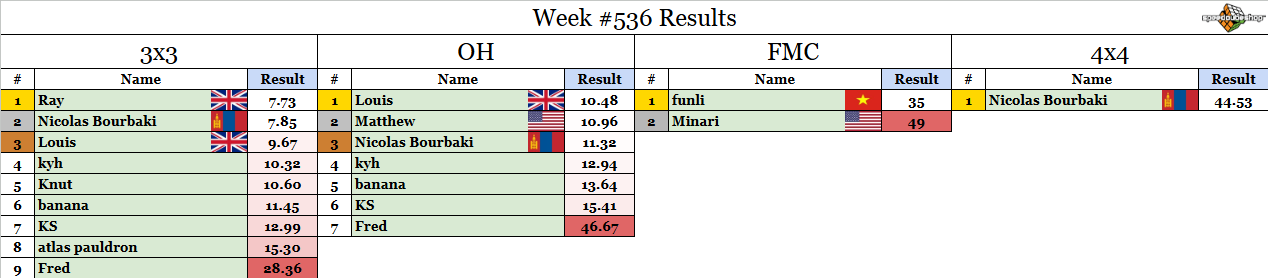
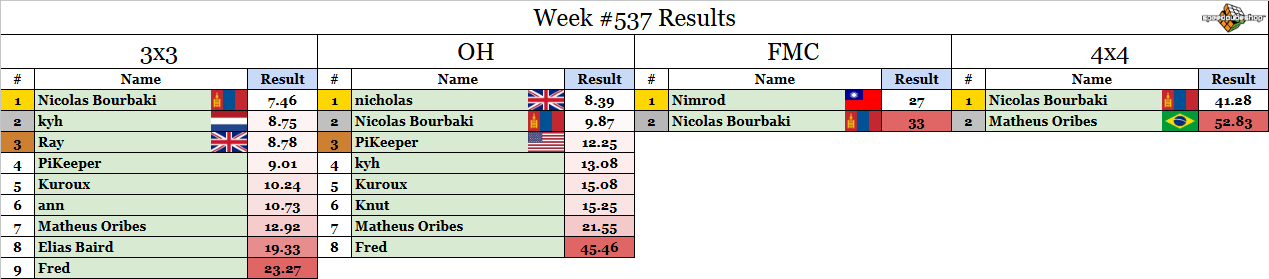
weekly comp update

Changed region(s): [[0.0, 0.0, 1.0, 1.0]]

diff --git a/src/pages/CMLL.tsx b/src/pages/CMLL.tsx
@@ -280,7 +280,7 @@ export default function CMLLTabs() {
             </TabPanel>
             <TabPanel value={subTab} index={4}>
                 <Box sx={{ width: tabWidth, padding: 2 }}>
-                    <Typography variant="h6">Pinkie Pie - IN PROGRESS</Typography>
+                    <Typography variant="h6">Pinkie Pie</Typography>
                     <ul>
                     <li>
                         Pinkie Pie Overview:{" "}

diff --git a/src/weeklycomp/post.md b/src/weeklycomp/post.md
@@ -1,9 +1,9 @@
-## Weekly Competition #537 
+## Weekly Competition #538 
  
  This weekly competition is proudly sponsored by SpeedCubeShop.com 
  One competitor will be selected at random to receive a $5 SCS gift card! 
  
- Congrats to last week's winner by a random draw: **kyh**. DM me for the prize. 
+ Congrats to last week's winner by a random draw: **ann**. DM me for the prize. 
  
  Check whether or not you participated this week yet at [https://bit.ly/RMSWeeklyCompSummary](https://bit.ly/RMSWeeklyCompSummary)  
  
@@ -17,29 +17,30 @@
  7. The comp runs until Sunday 5pm Eastern time (more or less). Enter your times using the forms links below. 
  
 ### 3x3: [Submission Form](https://forms.gle/H5xoCWvGKnZ92fQt8) 
- 1. R B2 D L2 F2 D B2 U' B2 L2 U' F R2 U R' F R D' F2 
- 2. F2 D2 U' F2 R2 U2 F2 U' B2 U' F2 R D B2 F' D R' B' L B L2 
- 3. F' U2 B' F2 R2 B' L2 F' L2 D2 R2 D R' D2 L' D2 L B' U2 L' R' 
- 4. L' B2 L2 B2 U' R2 B2 F2 D2 U' F2 D' F2 R B' D' U2 L2 F D2 F2 
- 5. F2 R2 U2 F2 U' R2 B2 D R2 D U B' R U' L B L2 F2 D2 R2 D 
+ 1. D L' B2 U B2 R2 L' B D2 L' B2 R2 D2 L F2 D2 R' U2 L2 B2 
+ 2. L D R2 D B2 D B2 D2 R2 B2 L2 B D F2 L R2 D U2 F2 
+ 3. U F2 D2 R2 D2 U L2 D B2 L2 B' R' D' B R B' L' R2 F2 
+ 4. B2 F2 D' L2 U' L2 U' R2 D' B2 D B' U B2 L U' L' R' D2 B F' 
+ 5. B' R F2 D2 B2 U R2 D L2 D' L2 D2 F2 B' D L U B' U2 L' B' 
  
 ### OH: [Submission Form](https://forms.gle/UgRLW3K1d5KkMGfM9) 
- 1. R B' L2 D' F2 U' R2 B2 U' R2 D' R2 U2 F U2 F L' R' F' D' B' 
- 2. D L2 D2 U2 L B2 R' D2 R2 B2 F2 D B2 F L' B' D2 F L' 
- 3. L2 D U2 L2 F L2 B2 R2 F' L2 D2 B' F2 R' F2 D F D' R' F2 
- 4. F' L F2 D F2 U2 F2 L2 U' R2 D' R2 B2 D' L' R' B' F2 L' D' U' 
- 5. B2 D R2 B2 D R2 D F2 U L U2 F L2 R2 F D R2 D2 R' 
-
+ 1. F' L' U R2 B' D2 R D L2 B2 D2 L2 B' R2 L2 F' R2 F L2 U2 R 
+ 2. F2 L2 U F R U L' U2 B U2 B L2 F2 L2 F2 U2 L2 F' D B2 
+ 3. L2 D B2 U' F2 L2 R2 U' L2 F' U L2 B2 R U' F' R2 D U2 
+ 4. F L' D' R2 U R2 D' F2 U' B2 D U' F2 L D' L2 D' L' B R D2 
+ 5. F2 D B2 D F2 R2 B2 R2 U L2 D2 U' R U' B2 D' R' F2 U2 B R' 
+ 
 ### FMC: [Submission Form](https://forms.gle/1P9VUgZmA1pibwvL9) 
- 1. R' U' F D F R F R2 F U' L2 U2 F' D2 L2 F U2 B2 L2 U2 D' L2 R' U' F 
+ 1. R' U' F U' R2 U2 B2 L' U2 B2 R F2 L' D2 F2 U2 B' U2 F D B' R2 D' L R' U' F 
  
 ### 4x4: [Submission Form](https://forms.gle/bHNjncvEcPvFWBP2A) 
- 1. R2 F2 L' D2 R F2 U2 F2 R' B2 D F R' D' B R2 D2 R' F' D' Fw2 L Rw2 D L' Rw2 D2 R2 D Fw2 Uw2 Rw2 Fw' L Rw2 D' L2 Rw' Fw Uw2 Rw' U2 D R 
- 2. F2 B' R2 D2 B' R2 U2 R2 F R2 D' L F' R U2 L' U2 R U2 Rw2 Uw2 R' B Uw2 Fw2 L D2 F' L Uw2 B2 Uw Rw2 Uw' F Uw R' Fw L2 Rw' Fw Rw Fw2 D 
- 3. L2 D2 R' B2 D2 R F2 U2 D2 R2 U2 B U' F2 L F' U' R U D F Uw2 Rw2 B2 U L2 Fw2 L' D' Uw2 L' Uw2 B2 L Fw' L F B D' Rw U R2 Rw' Uw' Rw2 Uw2 B2 
- 4. F2 D' R2 U' R2 L2 U' F2 D' B2 D' F R' U R' B' R2 U R' Uw2 F Rw2 D2 R' Uw2 R B2 R' B Uw2 R' L' Uw' L Rw2 Uw' R2 D2 F2 L2 Rw Uw' R' B' 
- 5. F D2 R2 F' D2 F L2 F L2 D2 R2 L' U' R2 L' F U2 B2 D' B' Rw2 U L2 Rw2 F' Fw2 Rw2 U' B D F2 U' Fw2 Rw' U' Fw2 R L' Rw' U2 Uw' Fw' R2 U Rw 
+ 1. L B L' F' U2 L2 D' R U D2 F2 B2 U' L2 D R2 F2 L2 D2 R2 Fw2 Uw2 B' R' Rw2 F B D2 B2 R' F' Uw' F Rw2 U F Fw' R Fw L2 D Rw' D 
+ 2. L2 U' F2 L2 F2 U F2 D2 L2 D' R2 L D F U R2 U' B' R' U D Uw2 F Fw2 Uw2 F' Uw2 L Uw2 F2 B L B' D2 Uw L2 B' R' L' Rw2 Fw' Rw F2 Uw' Fw2 D' B 
+ 3. D2 L2 B' D2 B2 R2 B U2 F D2 B L2 U F' D L2 U2 B2 U R' Uw2 F2 L' Fw2 L Rw2 F2 D L' Rw2 U Uw2 Fw' L' F' R2 Fw' Uw' F2 Rw' D2 L Uw B2 Rw2 
+ 4. R2 D' B2 R' D' F2 D' R F R U2 L F2 L' U2 R' B2 U2 Uw2 F L' Uw2 L Fw2 R Fw2 L2 U2 D2 R2 Uw L D' R2 F' U2 Fw' Uw' R Rw2 D2 B' Uw2 
+ 5. R L' U2 B' U2 F L' B2 U' L2 U2 R2 U' F2 D2 L2 F2 R2 D2 R Uw2 R' Uw2 Fw2 Rw2 F B' U2 B R' Fw2 R2 F2 D' R2 Uw' B D' Fw' R2 Uw' Rw' Fw Rw2 U' 
  
-### FMC: [Submission Form](https://forms.gle/1P9VUgZmA1pibwvL9) 
- 1. funli, 35: [SOLUTION](https://bit.ly/441xxQt) 
- 2. Minari, 49: [SOLUTION](https://bit.ly/3FWf3c7)
+### Winning FMC solutions from last week: 
+ 1. Nimrod, 27 moves: [SOLUTION](https://bit.ly/3HRPt8Q) 
+ 2. Nicolas Bourbaki, 33 moves: [SOLUTION](https://bit.ly/4eiAzVd)
+ 
